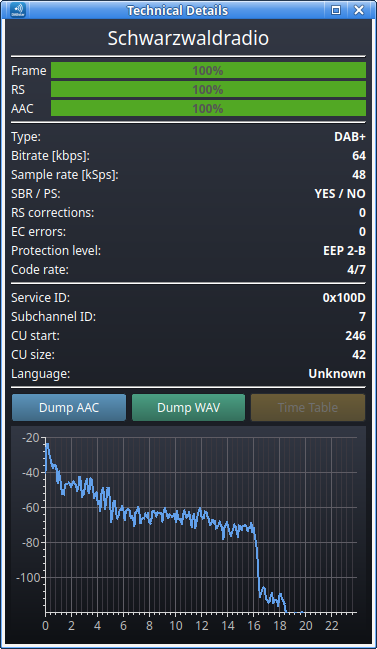
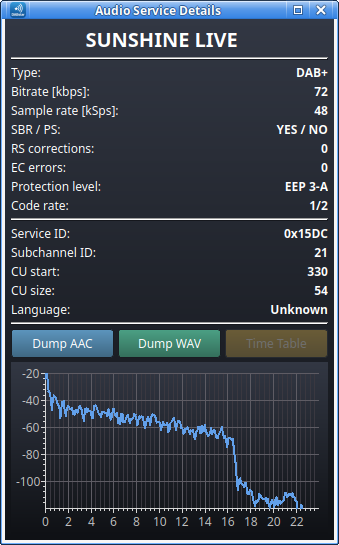
Update README to reflect changes in V5.7.0

Changed region(s): [[0.0, 0.0, 1.0, 1.0]]

diff --git a/README.md b/README.md
@@ -3,8 +3,10 @@
 ## Table of Content
 <!-- TOC -->
   * [Table of Content](#table-of-content)
-  * [Pictures from V5.5.0](#pictures-from-v550)
+  * [Pictures from V5.7.0](#pictures-from-v570)
     * [Main window](#main-window)
+      * [Traffic Light indicators in the main window](#traffic-light-indicators-in-the-main-window)
+      * [SNR and MER bar graph in the main window](#snr-and-mer-bar-graph-in-the-main-window)
     * [Ensemble List window (device mode)](#ensemble-list-window-device-mode)
     * [Ensemble List window (file mode)](#ensemble-list-window-file-mode)
     * [Configuration window](#configuration-window)
@@ -20,13 +22,12 @@
     * [Some of the device windows](#some-of-the-device-windows)
   * [Releases](#releases)
   * [Introduction and history](#introduction-and-history)
-  * [What is new in V5.0.0](#what-is-new-in-v500)
-    * [Ensemble List](#ensemble-list)
-      * [Two operation modes](#two-operation-modes)
-      * [Controls](#controls)
-      * [Color coding in the table](#color-coding-in-the-table)
-      * [Filter checkboxes](#filter-checkboxes)
-      * [Stored data per ensemble](#stored-data-per-ensemble)
+  * [Ensemble List](#ensemble-list)
+    * [Two operation modes](#two-operation-modes)
+    * [Controls](#controls)
+    * [Color coding in the table](#color-coding-in-the-table)
+    * [Filter checkboxes](#filter-checkboxes)
+    * [Stored data per ensemble](#stored-data-per-ensemble)
   * [Service List](#service-list)
     * [Favorites](#favorites)
     * [Sorting](#sorting)
@@ -34,10 +35,15 @@
     * [Target Button](#target-button)
     * [ANS (Automatic Next Service)](#ans-automatic-next-service)
     * [Some help for scanning](#some-help-for-scanning)
-  * [How to apply TII info](#how-to-apply-tii-info)
+  * [Configuration and Data Files](#configuration-and-data-files)
   * [Installing on Linux from current mainline](#installing-on-linux-from-current-mainline)
     * [Installing VOLK](#installing-volk)
+    * [Installing FDK-AAC](#installing-fdk-aac)
     * [Building DABstar](#building-dabstar)
+      * [CMake Build Options](#cmake-build-options)
+        * [Supported SDR Hardware](#supported-sdr-hardware)
+        * [DSP, SIMD & Decoding Options](#dsp-simd--decoding-options)
+        * [Recommended Minimum Configuration (RTL-SDR on x86_64)](#recommended-minimum-configuration-rtl-sdr-on-x86_64)
     * [RTL-SDR driver installation](#rtl-sdr-driver-installation)
     * [Installing USRP UHD](#installing-usrp-uhd)
     * [Installing AirSpy](#installing-airspy)
@@ -47,7 +53,7 @@
 
 ---
 
-## Pictures from V5.5.0
+## Pictures from V5.7.0
 
 ### Main window
 
@@ -60,16 +66,34 @@ The status bar below the MOT picture shows:
 | Indicator | Meaning                                                                            |
 |-----------|------------------------------------------------------------------------------------|
 | EEP 3-A   | The current (Viterbi) protection mode                                              |
+| HE-AAC    | The used audio decoder (DAB+: HE-AAC, DAB: MP2)                                    |
 | 72 kbps   | AAC decoder input bit rate (including MOT data)                                    |
 | 48 kSps   | The sample rate to the audio signal                                                |
 | Stereo    | Whether stereo mode is active                                                      |
 | PS        | Whether Parametric Stereo mode is active                                           |
 | SBR       | Whether Spectral Band Replication mode is active                                   |
-| MOT       | A Media Object Transfer is currently happening (e.g. Slide Show)                   |
+| MOT       | A Media Object Transfer is currently happening                                     |
 | EPG       | Whether Electronic Program Guide data are available (needs further implementation) |
-| Ann       | Whether an announcement is currently being broadcast                               |
-| RS        | For DAB+: The Reed Solomon decoder has detected errors (and almost repaired them)  |
-| CRC       | The RS decoder was not able to repair the error. Audible noise may occur           |                                                                     
+| ANN        | Whether an announcement is currently being broadcast                               |
+
+#### Traffic Light indicators in the main window
+
+The traffic light indicators provide real-time diagnostic information on signal quality, synchronization, error correction, and audio decoding:
+
+| Indicator | Meaning | Details / Thresholds |
+|-----------|---------|----------------------|
+| **FIC**   | FIC/FIB (Fast Information Channel/Block) quality indicator | **Green**: ≥ 95% FIB CRC success<br>**Yellow-Green**: ≥ 85% FIB CRC success<br>**Yellow**: ≥ 65% FIB CRC success<br>**Red-Yellow**: ≥ 45% FIB CRC success<br>**Red**: < 45% FIB CRC success *(if not green, reception is very unlikely)* |
+| **FRM**   | Frame / superframe synchronization and Fire Code header quality indicator | **Green**: 0 frame / superframe errors<br>**Yellow-Green**: 1 error<br>**Yellow**: 2–3 errors<br>**Red-Yellow**: 4–5 errors<br>**Red**: > 5 errors |
+| **AAC**   | AAC core decoding syntax / bitstream quality indicator *(DAB+ only)* | **Green**: 0 AAC decoding errors<br>**Yellow-Green**: 1 error<br>**Yellow**: 2–3 errors<br>**Red-Yellow**: 4–5 errors<br>**Red**: > 5 errors |
+| **RSE**   | Reed-Solomon uncorrectable error indicator *(DAB+ only)* | **Green**: 0 uncorrectable RS errors<br>**Yellow-Green**: 1 error<br>**Yellow**: 2–3 errors<br>**Red-Yellow**: 4–5 errors<br>**Red**: > 5 errors |
+| **RSC**   | Reed-Solomon / CRC error indicator *(DAB+ only)* | **Green**: Error-free reception (no RS or CRC errors)<br>**Yellow**: Errors detected but successfully repaired by Reed-Solomon<br>**Red**: Uncorrectable errors (audible audio drops will occur) |
+| **ABS**   | Audio buffer state indicator (Audio Bit Stream) | **Green**: Buffer fill level normal<br>**Red**: Buffer fill level critical (too low or too high)<br>**Yellow-Green** / **Red-Yellow**: Audio rate adaptation active (~1% audio speed adjustment) |
+                         
+#### SNR and MER bar graph in the main window
+
+With the toggle button **A/Q** you can switch between audio level and SNR/MER bar graph.
+
+![](res/for_readme/mainwidget_snr_mer.png)
 
 ### Ensemble List window (device mode)
 
@@ -149,7 +173,7 @@ For the latest AppImage versions see the
 The feature-set could be a bit different between Linux and Windows, even with same version number.
 
 ## Introduction and history
-[DABstar](https://github.com/tomneda/DABstar) was originally forked from Jan van Katwijk's great work of [Qt-DAB](https://github.com/JvanKatwijk/qt-dab)
+The predecessor of [DABstar](https://github.com/tomneda/DABstar) was originally forked in June 2023 from Jan van Katwijk's great work of [Qt-DAB](https://github.com/JvanKatwijk/qt-dab)
 from [commit](https://github.com/JvanKatwijk/qt-dab/commits/b083a8e169ca2b7dd47167a07b92fa5a1970b249) ([tree](https://github.com/JvanKatwijk/qt-dab/tree/b083a8e169ca2b7dd47167a07b92fa5a1970b249)) from 2023-05-30. Some fixes and adaptations from Qt-DAB made afterwards are included.
 
 With what now amounts to (not just perceived) hundreds to thousands of hours of work, there are huge changes and additions (but also reductions) made and there will be bigger changes in the future,
@@ -165,17 +189,14 @@ They are intended for development, backups and tests and will not always work in
 Recommended is to checkout a [Tag](https://github.com/tomneda/DABstar/tags) of a released version, these are better tested.
 
 
-## What is new in V5.0.0
+## Ensemble List
 
-### Ensemble List
-
-The biggest new addition in this development cycle is the **Ensemble List** — a dedicated window
-for cataloging and scanning DAB ensembles (groups of radio stations) either from a live SDR
+The **Ensemble List** is a dedicated window for cataloging and scanning DAB ensembles (groups of radio stations) either from a live SDR
 device or from pre-recorded IQ sample files.
 
 **How to open it:** Click the blue "EL" (Ensemble List) button in the main window toolbar.
 
-#### Two operation modes
+### Two operation modes
 (Select them on the main window, left from the "EL" button)
 
 | Mode                  | Description                                                                                                     |
@@ -183,7 +204,7 @@ device or from pre-recorded IQ sample files.
 | Device / Channel scan | Scans all standard DAB channels via the connected SDR device and stores the result for each channel.            |
 | File scan             | Scans a folder (or several folders) of recorded DAB IQ files and catalogs which ones contain valid signal data. |
 
-#### Controls
+### Controls
 
 | Control                                    | Mode      | Description                                                                                                                                                                                                                                       |
 |--------------------------------------------|:----------|---------------------------------------------------------------------------------------------------------------------------------------------------------------------------------------------------------------------------------------------------|
@@ -196,7 +217,7 @@ device or from pre-recorded IQ sample files.
 | Minimum file size (MB)                     | file only | Files smaller than this threshold are skipped when adding files to the database.                                                                                                                                                                  |
 | Add a single file and play                 | file only | Adds one recording to the database and starts playback immediately. Replaces the former "Eject" button. If the file is already in the database it is selected and played. The minimum size threshold does not apply (only the hard 4 MB minimum). |
 
-#### Color coding in the table
+### Color coding in the table
 
 The table uses background colors to give a quick status overview:
 
@@ -206,7 +227,7 @@ The table uses background colors to give a quick status overview:
 | Grayish  | Successfully scanned entry     |
 | Reddish  | No signal detected (failed)    |
 
-#### Filter checkboxes
+### Filter checkboxes
 
 Three filter checkboxes control which entries are visible in the table.
 Their state may be changed automatically when a certain scan situation arises.
@@ -217,7 +238,7 @@ Their state may be changed automatically when a certain scan situation arises.
 | Scanned     | Entries that already have scan data         |
 | No signal   | Entries where no valid DAB signal was found |
 
-#### Stored data per ensemble
+### Stored data per ensemble
 
 The SQLite database stores the following information for each entry (exact fields differ between device and file mode):
 
@@ -293,46 +314,39 @@ Also, the clock on the top of the service list can be used as indicator. Its tim
 can be received.
 
 
-## How to apply TII info
+## Configuration and Data Files
 
-To show the location, distance and direction to the transmitter, do the following:
+DABstar stores its configuration and databases in the `~/.config/dabstar` directory:
 
-1) Provide your home coordinates on the "Configuration and Control" window.
-2) Check the README.txt in sub folder **/tii-library** and follow the instructions given there (you will need sudo rights).
+- `settings03.ini`: Application configuration, window layouts, SDR settings, coordinates, and color schemes.
+- `servicelist04.db`: SQLite database containing scanned services, multiplex info, and favorites.
+- `ensemblelist04.db`: SQLite database containing channel and file scan records for the Ensemble List.
 
 ## Installing on Linux from current mainline
 
-This is what I needed to install DABstar on a fresh Ubuntu 24.04:
-```
+This is what is needed to install DABstar on Ubuntu (tested on Ubuntu 24.04):
+
+```bash
 sudo apt-get update
-sudo apt-get install git
-sudo apt-get install cmake
-sudo apt-get install build-essential
-sudo apt-get install g++
-sudo apt-get install libsndfile1-dev
-sudo apt-get install libfftw3-dev
-sudo apt-get install zlib1g-dev
-sudo apt-get install libsamplerate0-dev
-sudo apt-get install libusb-dev
-sudo apt-get install libusb-1.0-0-dev
-sudo apt-get install qt6-base-dev
-sudo apt-get install qt6-multimedia-dev
-sudo apt-get install qt6-charts-dev
+sudo apt-get install -y \
+    git cmake build-essential g++ \
+    libsndfile1-dev libfftw3-dev zlib1g-dev libusb-1.0-0-dev \
+    qt6-base-dev qt6-multimedia-dev qt6-charts-dev
 ```
 
 ### Installing VOLK
 
-Several parts (not only the OFDM decoder) use the [VOLK](https://www.libvolk.org/)
-(Vector-Optimized Library of Kernels) library for vectorized signal-processing operations.
-This noticeably reduces CPU load especially on machines with SSE/AVX capable processors.
+Several parts (including the OFDM decoder and frequency correction) use the [VOLK](https://www.libvolk.org/)
+(Vector-Optimized Library of Kernels) library for SIMD vectorized signal-processing operations.
+This noticeably reduces CPU load, especially on machines with SSE/AVX capable processors.
 VOLK version 3.3.0 or newer is recommended.
 
 Ubuntu 24.04 ships VOLK 3.1; install the packaged version or build from source for ≥ 3.3.0:
-```
+```bash
 sudo apt-get install libvolk-dev
 ```
 or build from source:
-```
+```bash
 git clone --recursive https://github.com/gnuradio/volk.git
 cd volk
 mkdir build && cd build
@@ -343,51 +357,84 @@ sudo ldconfig
 ```
 Enable VOLK in the DABstar build by adding `-DSSE_OR_AVX=ON` to the `cmake` command (see below).
 
-As libfaad had issues with low-rate services I switched over to FDK-AAC.
-But also the repository version in Ubuntu 24.04 has still flaws with PS (Parametric Stereo) services.
-So I recommend to build it for your own. I used the latest main version which is v2.0.3.
-```
+### Installing FDK-AAC
+
+As libfaad had issues with low-rate services, DABstar uses Fraunhofer FDK-AAC. FDK-AAC also supports a good working audio drop-out concealing.
+Because the repository version in some Linux distributions has flaws with PS (Parametric Stereo) services, building from source is recommended. 
+I used the latest tagged version which is v2.0.3 (contains AAC decoder library v3.2.0):
+```bash
 git clone https://github.com/mstorsjo/fdk-aac.git
 cd fdk-aac
 git checkout v2.0.3
-mkdir build
-cd build
+mkdir build && cd build
 cmake ..
-make
+make -j4
 sudo make install
+sudo ldconfig
 ```
 
 ### Building DABstar
-```
+```bash
 git clone https://github.com/tomneda/DABstar.git
 cd DABstar
-mkdir build
-cd build
-cmake .. -DAIRSPY=ON -DSDRPLAY=ON -DHACKRF=ON -DLIMESDR=ON -DRTL_TCP=ON -DPLUTO=ON -DUHD=ON -DRTLSDR=ON -DVITERBI_SSE2=ON -DVITERBI_NEON=OFF -DFDK_AAC=ON -DSSE_OR_AVX=ON
-make
+mkdir build && cd build
+cmake .. -DAIRSPY=ON -DSPYSERVER=ON -DSDRPLAY=ON -DHACKRF=ON -DLIMESDR=ON -DRTL_TCP=ON -DPLUTO=ON -DUHD=ON -DRTLSDR=ON -DSOAPY=ON -DVITERBI_AVX2=ON -DFDK_AAC=ON -DSSE_OR_AVX=ON
+make -j4
 ```
-Reduce or adapt the `cmake` command line for the devices/features you need.
 
-E.G.: If you have an RTL-SDR stick and work on a desktop PC (I have only tested this on an Intel-PC), this should be the minimum recommendation:
+#### CMake Build Options
+
+You can customize the build using CMake flags to enable only the SDR hardware and optimizations you need:
+
+##### Supported SDR Hardware
+
+| CMake Option | Default | Description |
+|---|---|---|
+| `-DRTLSDR=ON` | ON | RTL-SDR USB dongles |
+| `-DRTL_TCP=ON` | OFF | RTL-TCP networked SDR client |
+| `-DAIRSPY=ON` | OFF | AirSpy SDR |
+| `-DSPYSERVER=ON` | OFF | SpyServer network SDR client |
+| `-DHACKRF=ON` | OFF | Great Scott Gadgets HackRF One |
+| `-DSDRPLAY=ON` | OFF | SDRplay RSP devices (RSP1, RSP1A, RSP2, RSPduo, RSPdx) |
+| `-DPLUTO=ON` | OFF | Analog Devices ADALM-PLUTO SDR |
+| `-DLIMESDR=ON` | OFF | Lime Microsystems LimeSDR |
+| `-DUHD=ON` | OFF | Ettus Research USRP UHD |
+| `-DSOAPY=ON` | OFF | SoapySDR generic device wrapper |
+
+##### DSP, SIMD & Decoding Options
+
+| CMake Option | Default | Description |
+|---|---|---|
+| `-DVITERBI_AVX2=ON` | OFF | 16-way AVX2 SIMD Viterbi decoder (fastest for modern x86_64 CPUs) |
+| `-DVITERBI_SSE2=ON` | OFF | SSE2 SIMD Viterbi decoder (for older x86_64 CPUs) |
+| `-DVITERBI_NEON=ON` | OFF | ARM NEON SIMD Viterbi decoder (for ARM / Raspberry Pi) |
+| `-DSSE_OR_AVX=ON` | OFF | Vectorized OFDM decoding and frequency correction (requires VOLK) |
+| `-DFDK_AAC=ON` | ON | High-quality Fraunhofer FDK-AAC audio decoder |
+| `-DUSE_LIQUID=ON` | OFF | Liquid DSP for half-band filter and resampler (requires liquid-dsp) |
+| `-DDATA_STREAMER=ON` | OFF | Raw data streamer over TCP |
+
+##### Recommended Minimum Configuration (RTL-SDR on x86_64)
+
+```bash
+cmake .. -DRTLSDR=ON -DVITERBI_AVX2=ON -DSSE_OR_AVX=ON
 ```
-cmake .. -DRTLSDR=ON -DVITERBI_SSE2=ON -DSSE_OR_AVX=ON
-```
+*(Use `-DVITERBI_SSE2=ON` instead of `-DVITERBI_AVX2=ON` if your processor does not support AVX2).*
 
 To speed up compilation you can provide `-j<n>` as argument with `<n>` number of threads after the `make` command. E.G. `make -j4`.
-Do not choose a too high number (or at my side only providing a `-j`) the system can hang due to running out memory and needed swapping!
+Do not choose a too high number, as the system can run out of memory!
 
 Finally, in the build folder you can find the program file which you can start with
-```
+```bash
 ./dabstar
 ```
 
 You could try to install the software within your system with
-```
+```bash
 sudo make install
 sudo ldconfig
 ```
 To uninstall DABstar again, do this:
-```
+```bash
 sudo make uninstall
 ```
 
@@ -402,14 +449,14 @@ If you are using the default driver while running DABStar you will get a message
 The driver from old-dab should still be compatible with other applications using this driver.
 
 Remove the default driver with:
-```
+```bash
 sudo apt remove rtl-sdr librtlsdr-dev
 sudo ldconfig
 ```
 
 
 If you nevertheless want to use the default version from Ubuntu (but this is not recommended as the driver from old-dab has some improvements):
-```
+```bash
 sudo apt install rtl-sdr librtlsdr-dev
 sudo ldconfig
 ```
@@ -418,7 +465,7 @@ sudo ldconfig
 
 Best worked for me was building UHD from the repository of Ettus Research.
 
-```
+```bash
 sudo add-apt-repository ppa:ettusresearch/uhd
 sudo apt-get update
 sudo apt-get install libuhd-dev uhd-host
@@ -428,20 +475,19 @@ sudo apt-get install libuhd-dev uhd-host
 
 Details see https://github.com/airspy/airspyone_host
 
-```
+```bash
 git clone https://github.com/airspy/airspyone_host.git
 cd airspyone_host
-mkdir build
-cd build
+mkdir build && cd build
 cmake ../ -DINSTALL_UDEV_RULES=ON
-make
+make -j4
 sudo make install
 sudo ldconfig
 ```
 
 ## Licences
 
-Rights of Qt-DAB, AbracaDABra, Qt, FFTW, VOLK, FDK-AAC, libfaad, libsamplerate and libsndfile gratefully acknowledged.
+Rights of Qt-DAB, AbracaDABra, Qt, FFTW, VOLK, FDK-AAC, libfaad, and libsndfile gratefully acknowledged.
 
 Rights of developers of RTLSDR library, SDRplay libraries, AIRspy library and others gratefully acknowledged.
 
